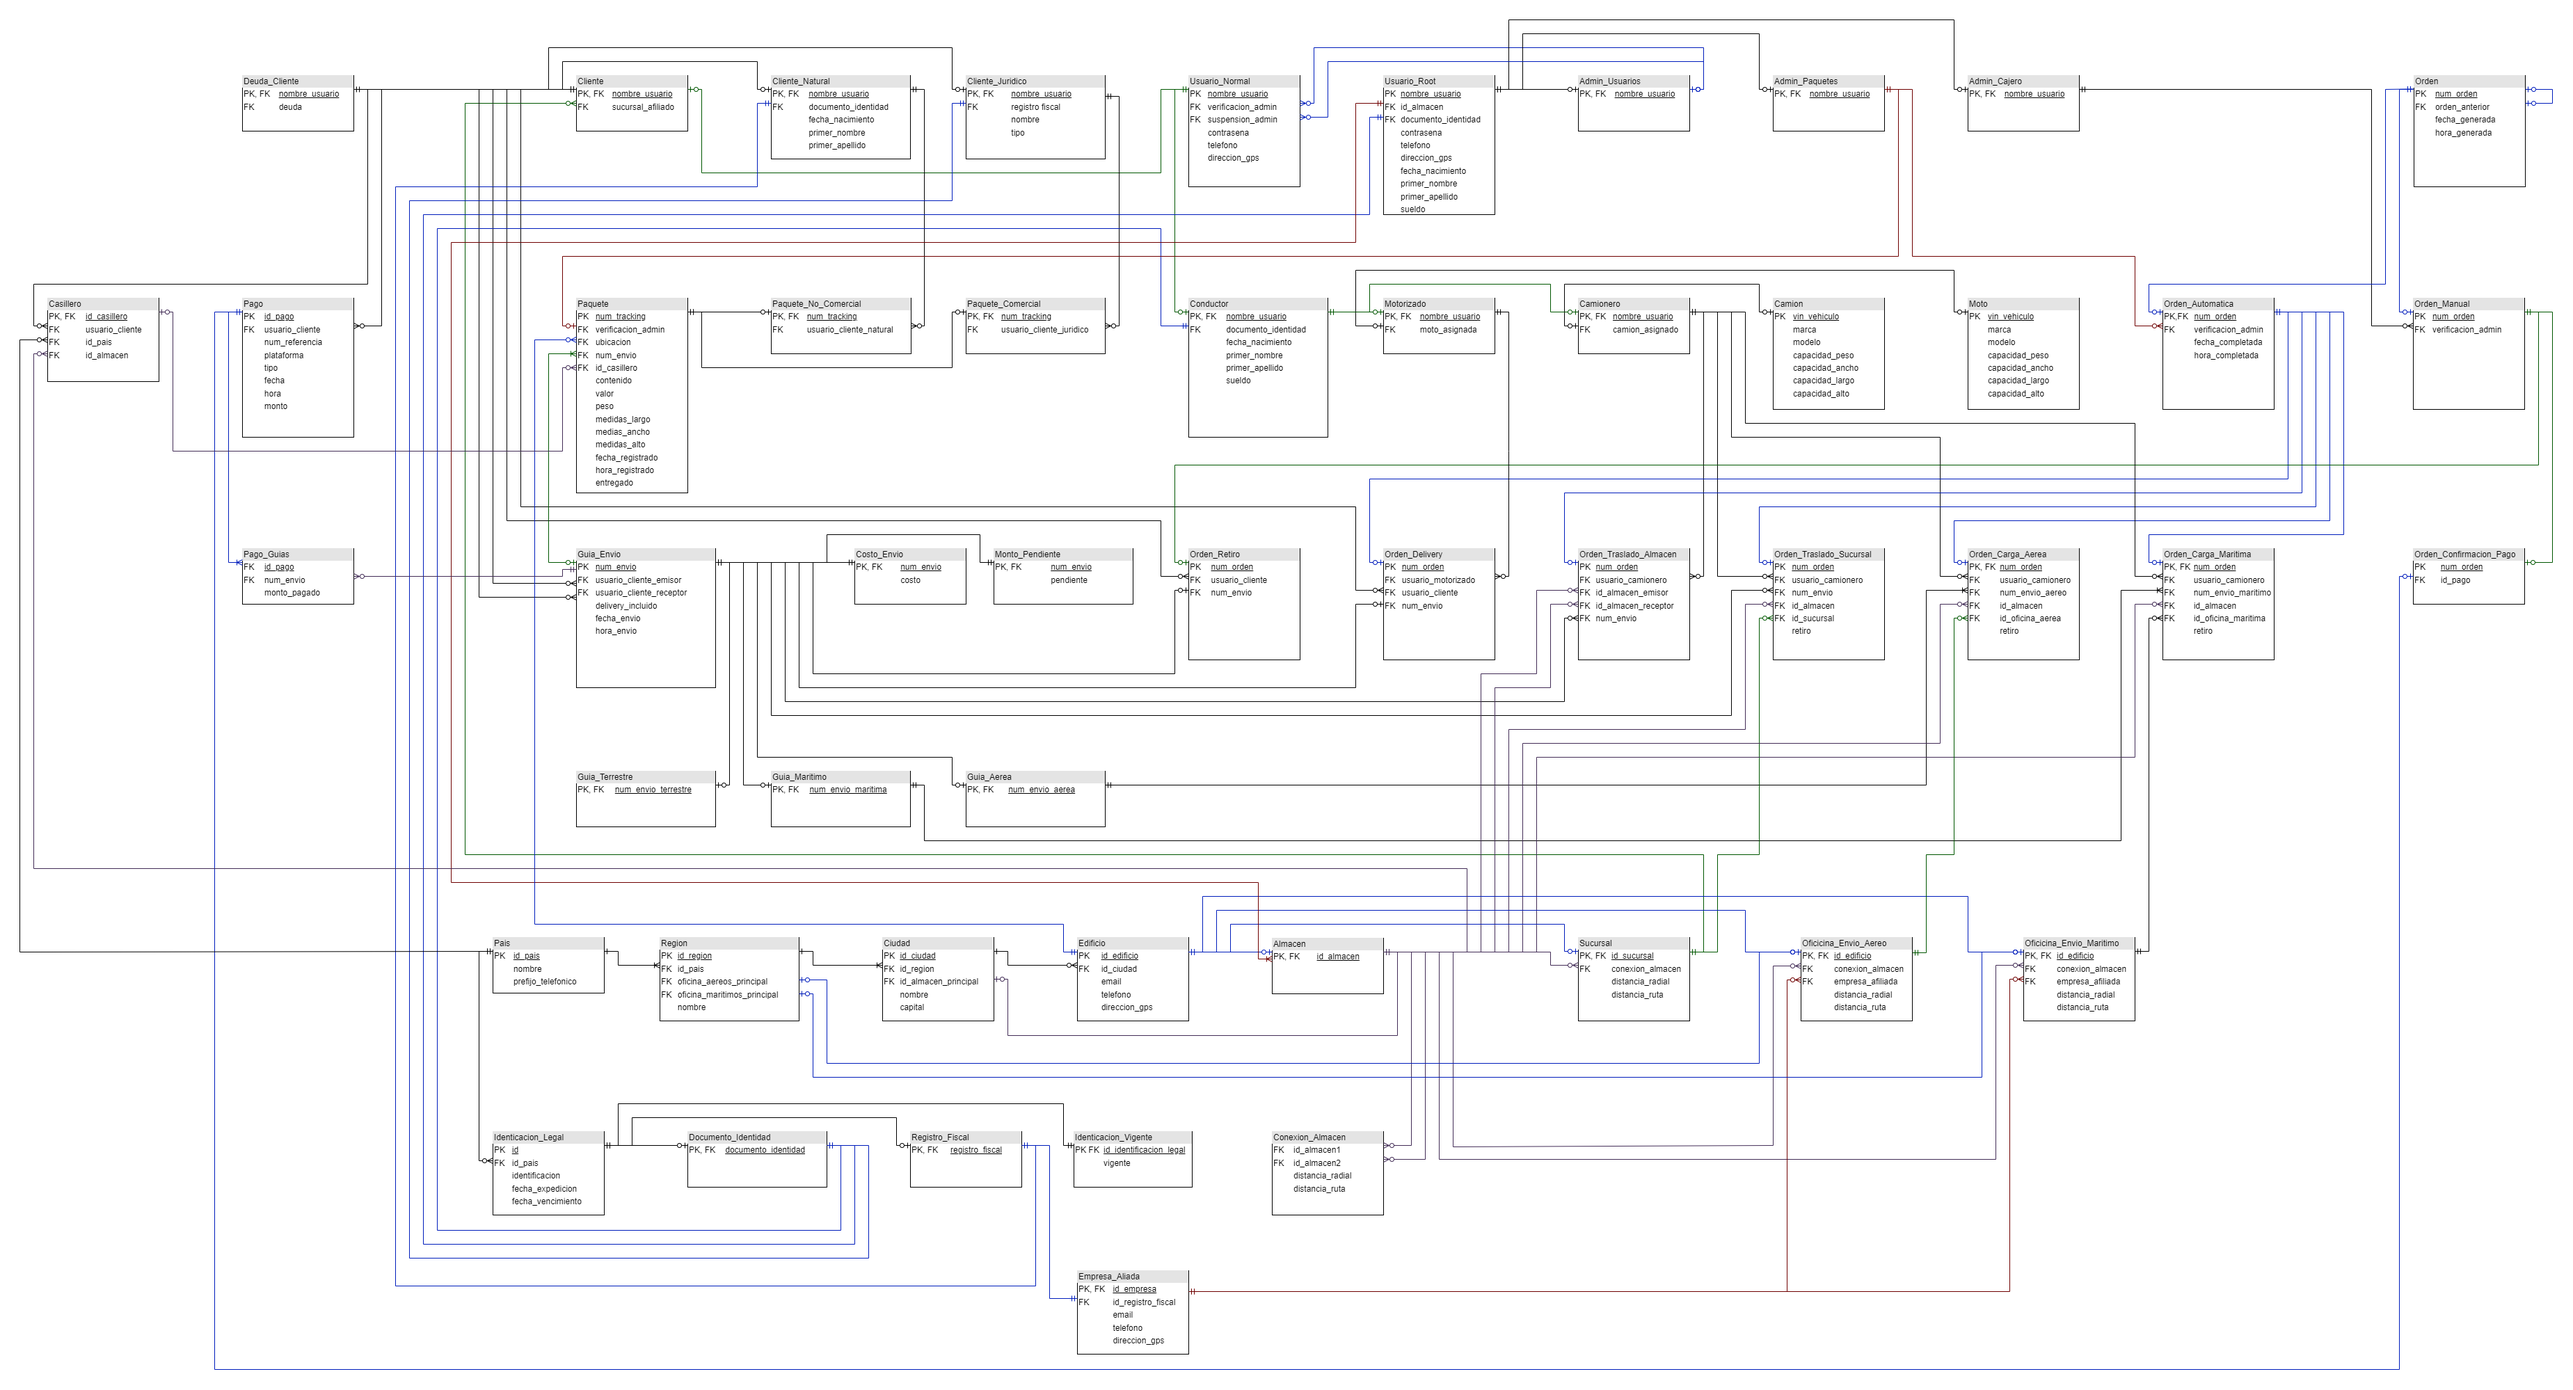
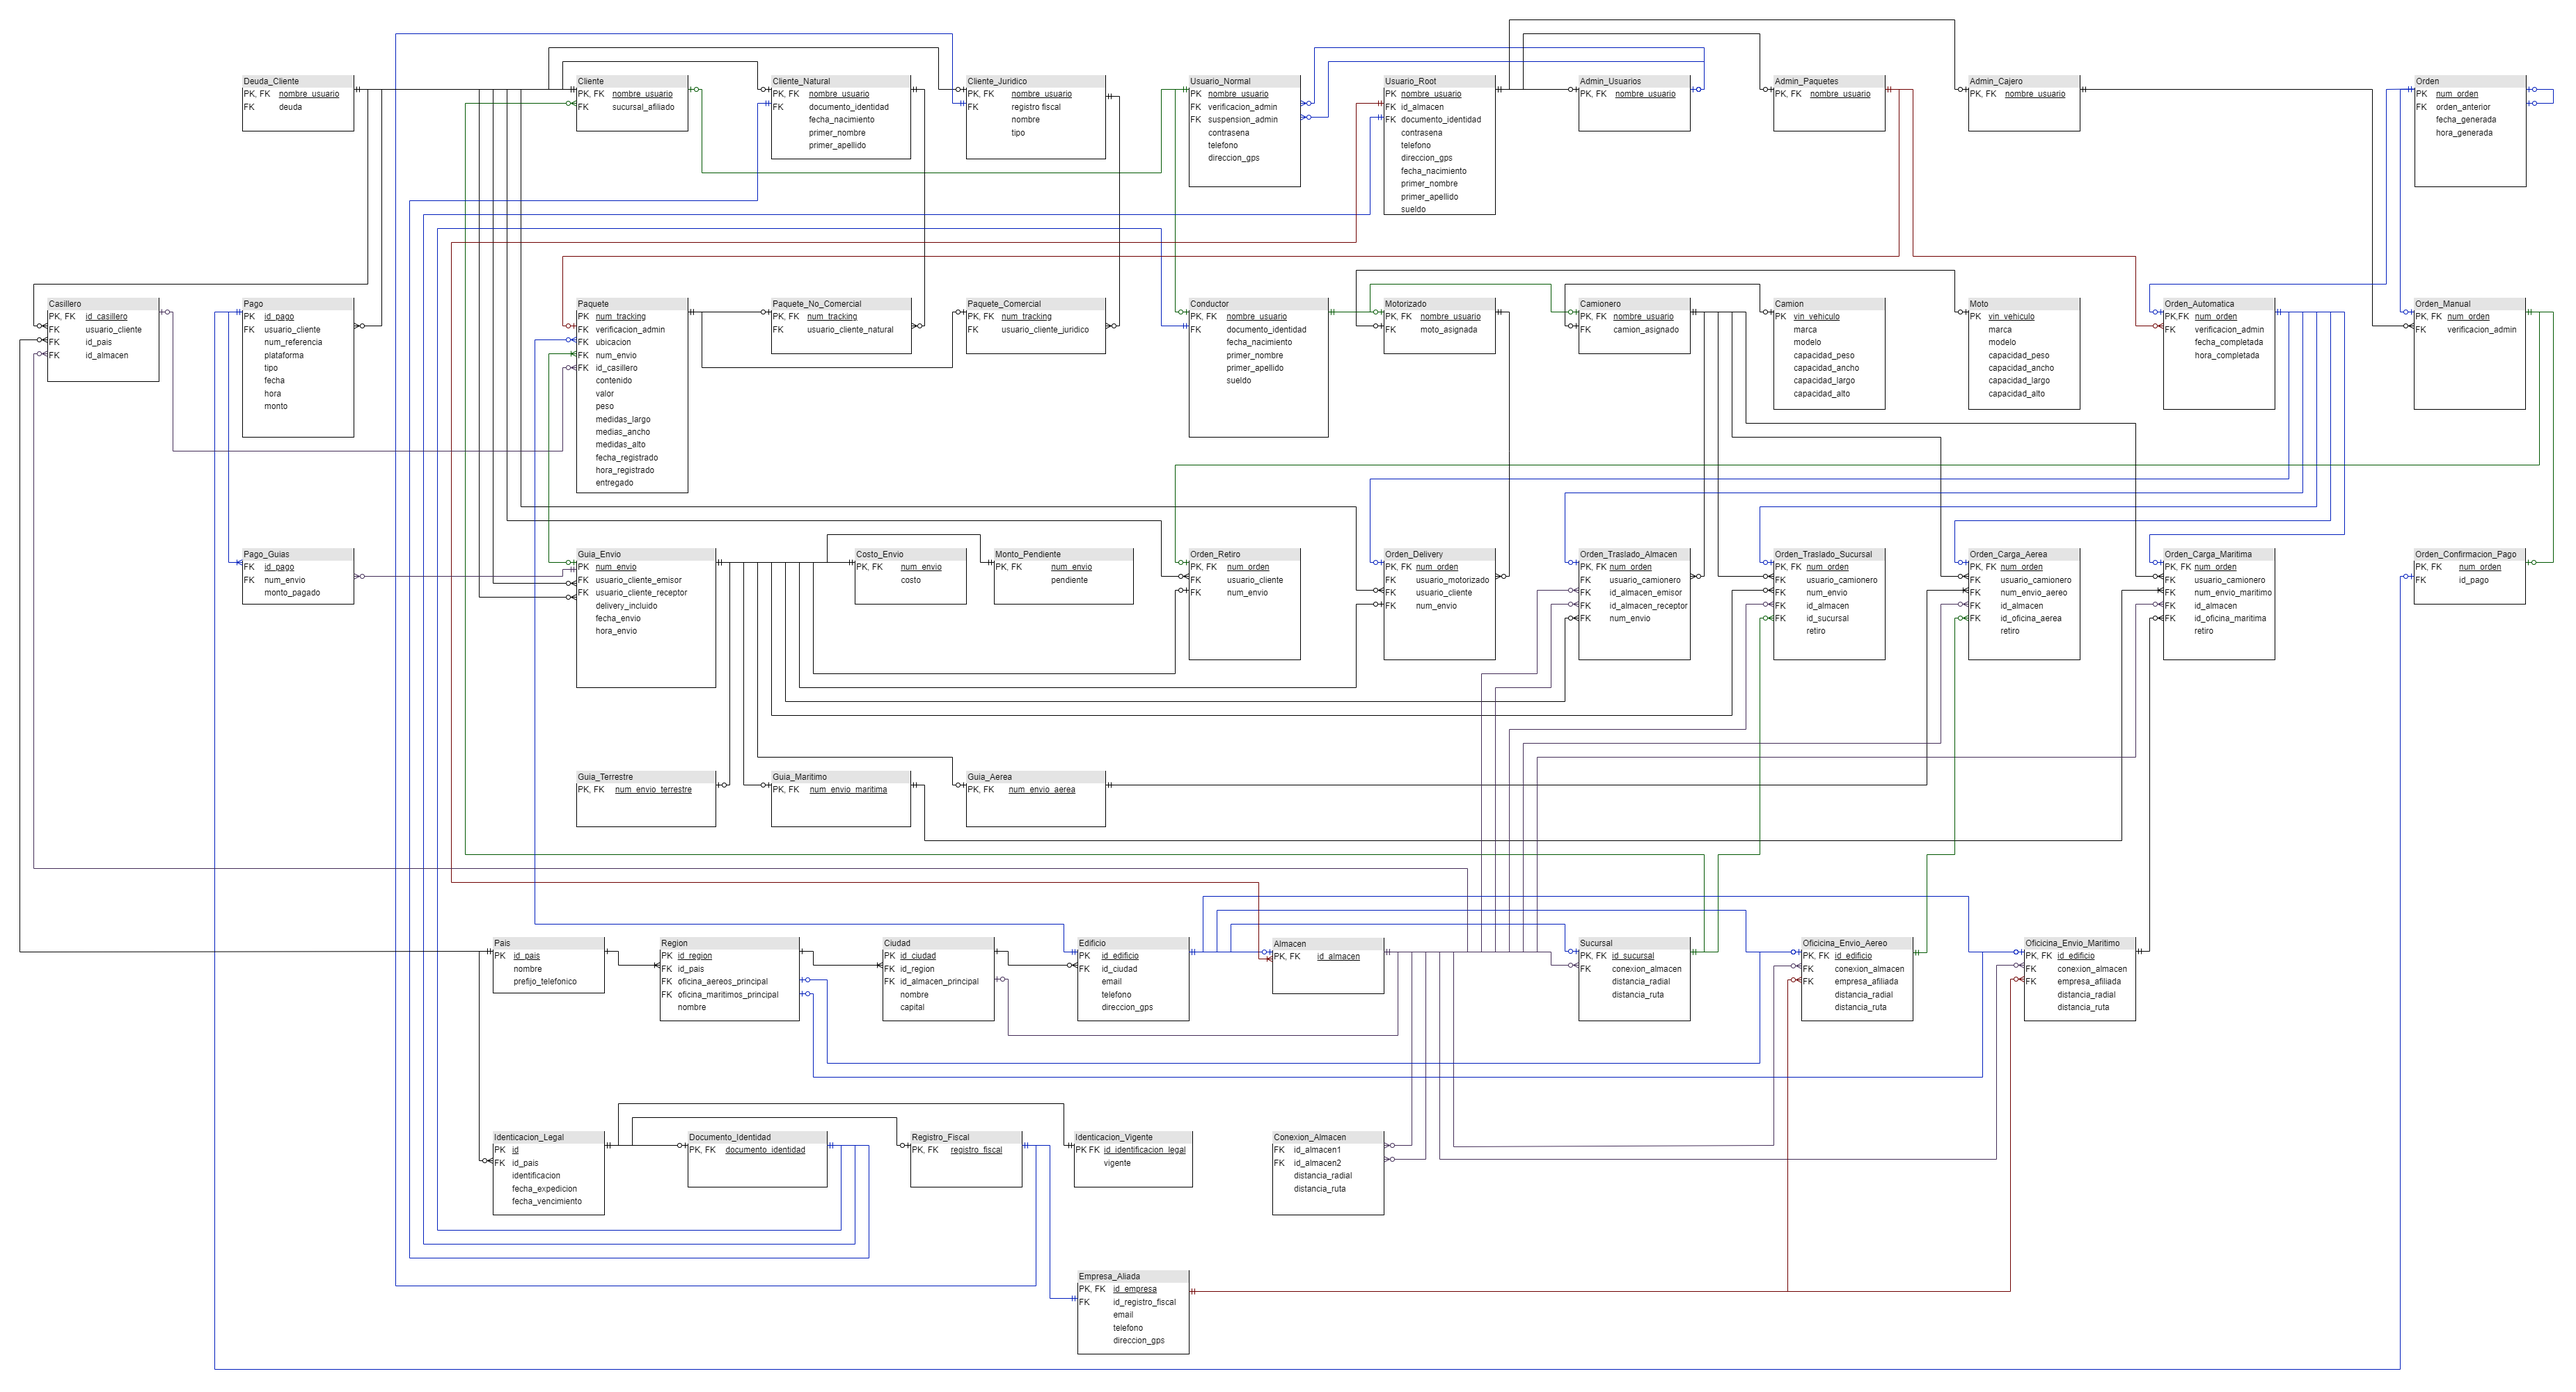
feat: Added Initial Files for Rush Cargo Insiders Terminal Program
* Added Class for Database Connection
* Added Country Class for Basic CRUD Operations
* Added requirements.txt from Python Virtual Environment
* Added example.env File that Stores the Database Information in Order to be Able to Connect to it
* Added Unique Constraint to Name and Phone Prefix at Country Table
* Fixed Minor Errors at Rush Cargo Relational Model Diagram

diff --git a/rushcargo-insiders/src/lib/model/database.py b/rushcargo-insiders/src/lib/model/database.py
@@ -1,0 +1,237 @@
+from psycopg2 import connect, sql, extras
+from io import StringIO
+
+from lib.model.constants import *
+from lib.model.exceptions import *
+
+# Input Validator
+def checkInput(input: str, isAlpha: bool = True, isDigit: bool = True, isSpecial: bool = False) -> bool:
+    # Nothing to Check
+    if isAlpha and isDigit and isSpecial:
+      return True
+    
+    for i in input:
+        # Check if the Given Character is an Alphabetical Character
+        if isAlpha and i.isalpha():
+            continue
+        
+        # Check if the Given Character is a Digit
+        if isDigit and i.isdigit():
+            continue
+        
+        if not isSpecial: 
+          return False
+            
+    return True        
+
+# Default Database Class
+class Database:
+    # Protected Fields
+    _host = None
+    _dbname = None
+    _user = None
+    _password = None
+    _port = None
+
+    # Public Fields
+    conn = None
+    c = None
+
+    # Constructor
+    def __init__(self, dbname: str, user: str, password: str, host: str = "localhost", port: int = 5432):         
+        # Save Connection Data to Protected Fields
+        self._host = host
+        self._dbname = dbname
+        self._user = user
+        self._password = password
+        self._port = port
+        
+        # Connect to Database
+        self.conn = connect(
+            host = host,
+            dbname = dbname,
+            user = user,
+            password = password,
+            port = port,
+            sslmode = 'require'
+        )
+        self.c = self.getCursor()
+
+    # Destructor
+    def __del__(self):    
+        # Commit Command
+        self.conn.commit()
+
+        # Close Connection
+        if self.c is not None:
+            self.c.close()
+        if self.conn is not None:
+            self.conn.close()
+
+    # Get Cursor
+    def getCursor(self):
+        return self.conn.cursor()
+    
+# Country Table Class
+class Country:
+    # Private Fields
+    __tableName = "country"
+    __items = None
+    
+    # Public Fields
+    c = None
+
+    # Constructor
+    def __init__(self, database: Database):         
+      # Get Cursor
+      self.c = database.getCursor()
+
+   # Check if Column Used as Parameter is Valid
+    def __checkField(self, field: str, isIdValid: bool = True) -> bool:
+        if field == COUNTRY_NAME or field == COUNTRY_PHONE_PREFIX:
+            return True
+        if isIdValid and field == COUNTRY_ID:
+            return True
+        return False      
+
+    # Delete Country from Table
+    def delete(self, field: str, value):
+        # Check Field Parameter
+        if not self.__checkField(field):
+          raise FieldError(field, self.__tableName)
+        
+        query = sql.SQL(
+                "DELETE FROM {tablename} WHERE {field} = (%s)"
+            ).format(
+                tablename = sql.Identifier(self.__tableName),
+                field = sql.Identifier(field))
+        
+        try:
+            self.c.execute(query, [value])
+            print(f"Deleted Coincidences which had: '{value}' in '{field}' Column\n")
+        except Exception as err:
+            print(err)
+
+    # Insert Country to Table
+    def insert(self, name: str, phonePrefix: int): 
+        # Get Query
+        query = sql.SQL(
+                "INSERT INTO {tableName} ({name}, {phone_prefix}) VALUES (%s, %s)"
+            ).format(
+                tableName = sql.Identifier(self.__tableName),
+                name = sql.Identifier(COUNTRY_NAME),
+                phone_prefix = sql.Identifier(COUNTRY_PHONE_PREFIX))
+
+        # Execute Query
+        try:
+            self.c.execute(query, [name, phonePrefix])
+            print(f"Country Successfully Inserted to {self.__tableName} Table\n")
+        except Exception as err:
+            print(err)
+        
+    # Insert Multiple Countries to Table
+    def insertMany(self, countries: list):
+        # Get Query
+        query = sql.SQL(
+                "INSERT INTO {tableName} ({id}, {name}, {phone_prefix}) VALUES %s"
+            ).format(
+                tableName = sql.Identifier(self.__tableName),
+                id = sql.Identifier(COUNTRY_ID),
+                name = sql.Identifier(COUNTRY_NAME),
+                phone_prefix = sql.Identifier(COUNTRY_PHONE_PREFIX))
+
+        # Execute Query
+        try:
+            extras.execute_values(self.c, query.as_string(self.c), countries, page_size=100)
+            print(f"Countries Successfully Inserted to {self.__tableName}\n")
+        except Exception as err:
+            print(err)
+
+    # Update Country by Row ID
+    def update(self, id: int, field: str, value):
+        # Check Field Parameter
+        if not self.__checkField(field, False):
+            raise FieldError(field, self.__tableName)
+        
+        # Get Query
+        query = sql.SQL(
+                "UPDATE {tableName} SET {field} = (%s) WHERE {rowid} = (%s)"
+            ).format(
+                tableName = sql.Identifier(self.__tableName),
+                field = sql.Identifier(field),
+                rowid = sql.Identifier(COUNTRY_ID))
+        
+        # Execute Query
+        try:
+            self.c.execute(query, [value, id])
+            print(f"Country {id} Successfully Updated to {self.__tableName}\n")
+        except Exception as err:
+            print(err)
+
+    # Sort By Table
+    def __orderBy(self, orderBy: str, desc: bool):
+        if desc:
+            orderBy = orderBy.concat(' DESC')
+
+        # Get Query
+        query = sql.SQL(
+                    "SELECT * FROM {tableName} ORDER BY (%s)"
+                ).format(
+                    tableName = sql.Identifier(self.__tableName))
+        
+        # Execute Query
+        try:
+            self.c.execute(query, [orderBy])
+        except Exception as err:
+            print(err)
+        
+    # Return All Countries
+    def __fetch(self, orderBy: str, desc: bool):
+        try:
+            self.__orderBy(orderBy, desc)
+            self.__items = self.c.fetchall()
+        except Exception as err:
+            print(err)
+            raise err
+
+    # Print All Items from Main Table
+    def printAll(self, orderBy: str = COUNTRY_ID, desc: bool = False):
+        # Check orderBy
+        if not self.__checkField(orderBy, True):
+           raise FieldError(orderBy, self.__tableName) 
+
+        # Fetch Items
+        try:
+            self.__fetch(orderBy, desc)
+        except Exception as err:
+            raise err
+            
+        msg = StringIO()
+
+        # Print Header
+        msg.write("ID".ljust(COUNTRY_NCHAR, ' ') + 
+                "Name".ljust(COUNTRY_NCHAR, ' ') + 
+                "Phone Prefix".ljust(COUNTRY_NCHAR, ' ') + 
+                '\n')
+
+        # Add Separator
+        msg.write('-' * COUNTRY_NCHAR * 4)
+
+        # Check Items
+        if self.__items is None:
+            print("Error: No Items Fetched")
+            return
+
+        # Loop Over Items
+        for item in self.__items:
+            msg.write('\n')
+
+            # Append String to In-Memory Buffer with Left Alignment
+            for value in item:
+                try:
+                    msg.write(value.ljust(COUNTRY_NCHAR, ' '))
+                except:
+                    msg.write(str(value).ljust(COUNTRY_NCHAR, ' '))
+        msg.write('\n')
+
+        print(msg.getvalue())

diff --git a/rushcargo-insiders/src/main.py b/rushcargo-insiders/src/main.py
@@ -1,0 +1,40 @@
+from dotenv import load_dotenv
+from pathlib import Path
+import os
+
+from lib.model.constants import *
+from lib.model.exceptions import *
+from lib.model.database import *
+
+# Get Path to 'src' Directory
+src = Path(__file__).parent
+
+# Get Path to 'rushcargo-insiders' Directory
+main = src.parent
+
+# Get Path to the .env File for Local Environment Variables
+dotenv_path =  main /"venv/.env"
+# print(dotenv_path)
+
+def main():
+  # Load .env File
+  load_dotenv(dotenv_path)
+
+  # Get Database-related Environment Variables
+  host = os.getenv('HOST')
+  port = os.getenv('PORT')
+  dbname = os.getenv('DBNAME')
+  user = os.getenv('USER')
+  password = os.getenv('PASSWORD')
+
+  # Initialize Database Object
+  db = Database(dbname, user, password, host, port)
+  
+  # Initialize Country Object
+  country = Country(db)
+  # country.insert("Colombia", 57)
+  # country.printAll()
+
+
+if __name__ == "__main__":
+  main()

diff --git a/rushcargo-insiders/src/lib/model/exceptions.py b/rushcargo-insiders/src/lib/model/exceptions.py
@@ -1,0 +1,15 @@
+class FieldError(Exception):
+  """
+  Exception Raised for Invalid Fields Used as Columns for a Given Table
+  """
+
+  def __init__(self, field: str, tableName: str):
+    super().__init__(f"Invalid Column '{field}' for '{tableName}' Table\n")
+
+class ValueError(Exception):
+  """
+  Exception Raised for Invalid Values Used as Columns Data for a Given Table
+  """
+
+  def __init__(self, value: str, field: str, tableName: str):
+    super().__init__(f"Invalid '{value}' at Column '{field}' for '{tableName}' Table\n")

diff --git a/rushcargo-insiders/src/lib/model/constants.py b/rushcargo-insiders/src/lib/model/constants.py
@@ -1,0 +1,14 @@
+# Number of Characters per Column
+COUNTRY_NCHAR = 20
+
+# Country Table Columns
+COUNTRY_ID = "country_id"
+COUNTRY_NAME = "country_name"
+COUNTRY_PHONE_PREFIX = "phone_prefix"
+
+# Region Table Columns
+REGION_ID = "region_id"
+REGION_FK_COUNTRY = "country_id"
+REGION_FK_MAIN_AIR_FORWARDER = "main_air_freight_forwarder"
+REGION_FK_MAIN_OCEAN_FORWARDER = "main_ocean_freight_forwarder"
+REGION_NAME = "region_name"
